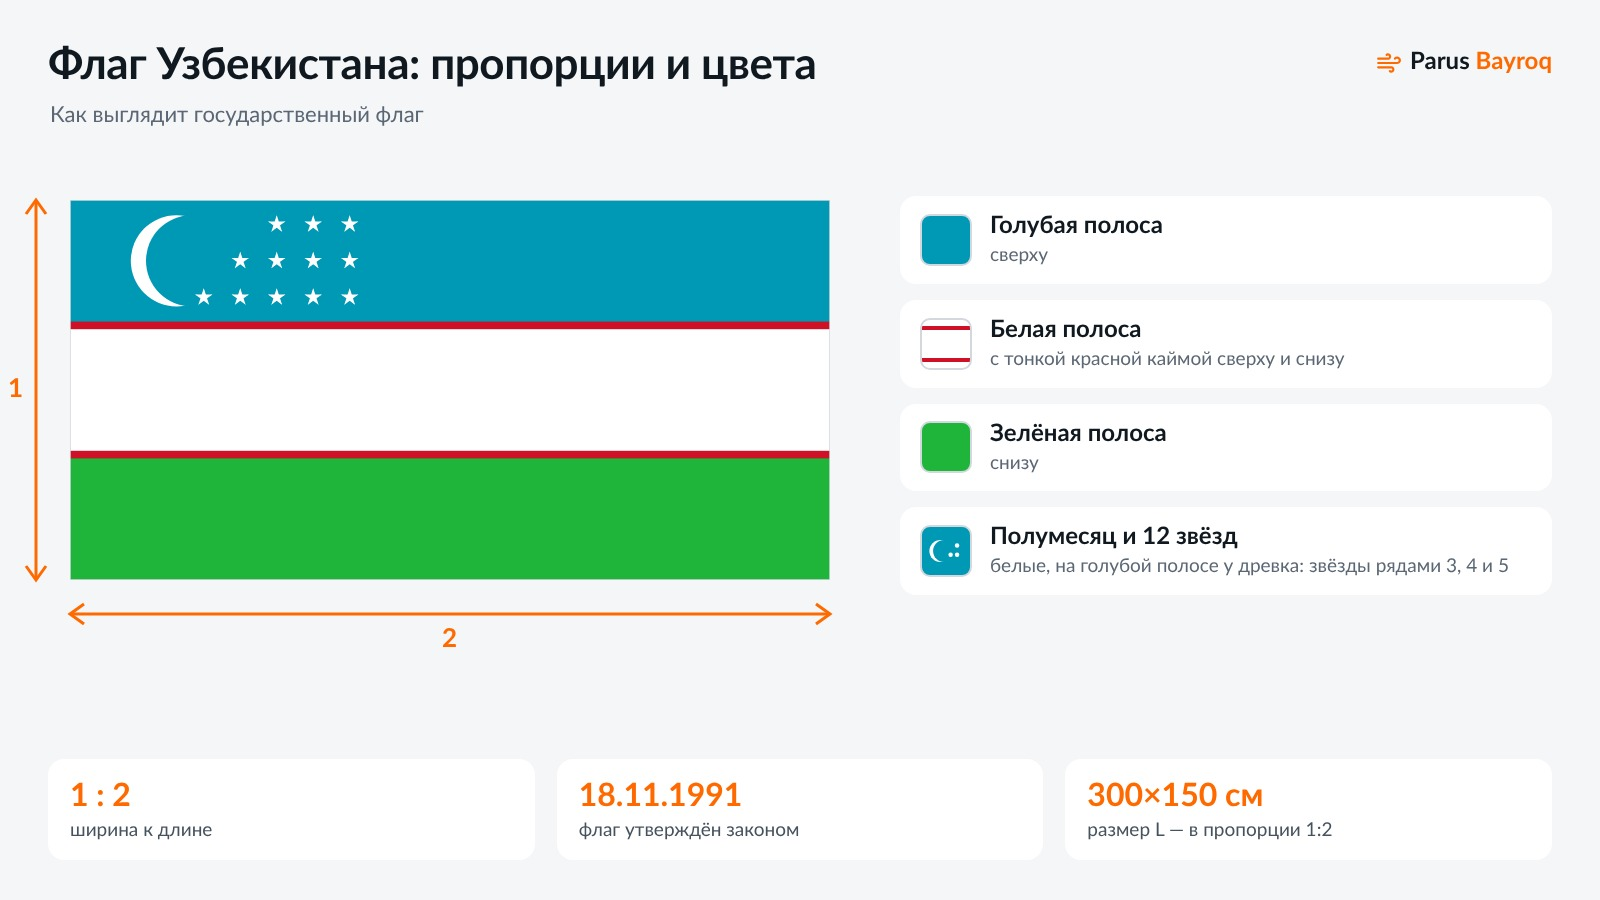
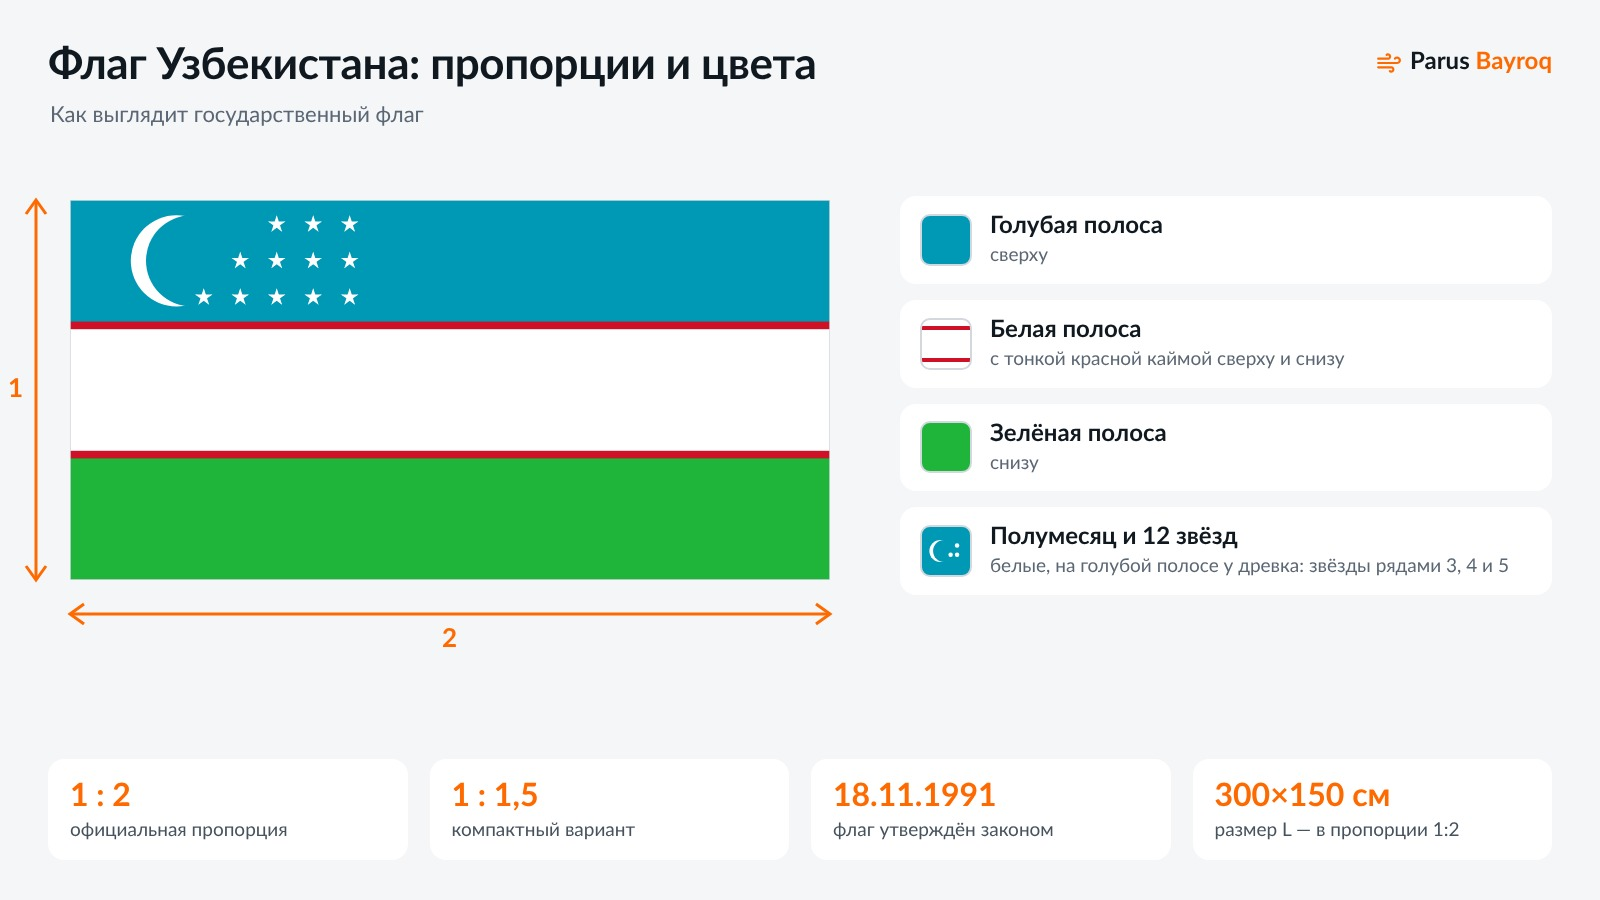
Uzbek flag draft: add compact 1:1.5 proportion (owner)
Besides the official 1:2 we make a compact 1:1.5 flag (100x70,
150x100, 225x150) and any size on request. Text, FAQ, scheme and
knowledge base updated.

Claude-Session: https://claude.ai/code/session_015girjWGqJ2BamwEKrRRUGV

diff --git a/src/content/blog/uz/ozbekiston-bayrogi-sotib-olish.md b/src/content/blog/uz/ozbekiston-bayrogi-sotib-olish.md
@@ -1,6 +1,6 @@
 ---
 title: "O'zbekiston bayrog'ini Toshkentda qayerdan sotib olish mumkin: buyurtma asosida davlat bayroqlari"
-description: "O'zbekiston bayrog'ini Toshkentda sotib olish: davlat bayroqlarini 1:2 nisbatda istalgan o'lchamda bosamiz — flagshtok, fasad, kabinet va tadbirlar uchun. Bayroq qanday ko'rinadi, qaysi o'lchamni tanlash, boshqa davlatlar bayroqlari, narxlar va yetkazish."
+description: "O'zbekiston bayrog'ini Toshkentda sotib olish: davlat bayroqlarini istalgan o'lchamda — rasmiy 1:2 va ixcham 1:1,5 nisbatda — flagshtok, fasad, kabinet va tadbirlar uchun bosamiz. Bayroq qanday ko'rinadi, qaysi o'lchamni tanlash, boshqa davlatlar bayroqlari, narxlar va yetkazish."
 date: 2026-11-28
 lang: uz
 pair: uzflag
@@ -9,16 +9,16 @@ coverAlt: "Toshkentda bino oldidagi flagshtokda O'zbekiston davlat bayrog'i — 
 draft: true
 faq:
   - q: "O'zbekiston bayrog'i qancha turadi?"
-    a: "300×150 sm bayroq — rasmiy 1:2 nisbatda — 280 000 so'm turadi. 1:2 nisbatdagi boshqa o'lchamlarni buyurtma asosida qilamiz: qaysi biri kerakligini yozing, hisoblab beramiz."
+    a: "Rasmiy 1:2 nisbatdagi 300×150 sm bayroq 280 000 so'm, ixcham 1:1,5 nisbatdagi 150×100 sm bayroq — 120 000 so'm turadi. Istalgan boshqa o'lchamni ham qilamiz: qaysi biri kerakligini yozing, hisoblab beramiz."
   - q: "O'zbekiston bayrog'ining nisbati qanday?"
-    a: "1:2 — bayroqning eni bo'yidan ikki baravar kichik, masalan 300×150 sm. Bayroq moviy, oq va yashil yo'llardan iborat, oq yo'l ingichka qizil hoshiya bilan ajratilgan, moviy yo'lda dasta tomonda esa oq yarim oy va 12 ta yulduz bor."
+    a: "Rasmiy nisbat — 1:2: bayroqning eni bo'yidan ikki baravar kichik, masalan 300×150 sm. Bundan tashqari, ixcham 1:1,5 variantini ham qilamiz — masalan, 150×100 sm. Bayroq moviy, oq va yashil yo'llardan iborat, oq yo'l ingichka qizil hoshiya bilan ajratilgan, moviy yo'lda dasta tomonda esa oq yarim oy va 12 ta yulduz bor."
   - q: "Boshqa davlatlarning bayroqlarini buyurtma qilsa bo'ladimi?"
     a: "Ha. Istalgan davlat bayroqlarini, shuningdek kompaniya logotipli bayroqlarni va tadbirlar uchun bayroqlarni qilamiz."
   - q: "Bayroq flagshtok bilan sotiladimi?"
     a: "Yo'q. Klassik bayroq — bu flagshtoksiz mato. O'zi turadigan bayroq kerak bo'lsa, konstruksiyali — flagshtok va bochka-asosli parus bayroqlar bor."
 ---
 
-O'zbekiston bayrog'ini Toshkentda bizdan sotib olsa bo'ladi: davlat bayroqlarini istalgan o'lchamda bosamiz — bino oldidagi flagshtok, fasad, kabinet yoki tadbir uchun. O'zbekiston bayrog'i 1:2 nisbatda bo'lishi kerak, shuning uchun eng qulay standart o'lcham — 300×150 sm, u 280 000 so'm turadi. Shu nisbatdagi boshqa o'lchamlarni buyurtma asosida qilamiz, boshqa davlatlar bayroqlari va logotipli bayroqlarni ham bosamiz.
+O'zbekiston bayrog'ini Toshkentda bizdan sotib olsa bo'ladi: davlat bayroqlarini istalgan o'lchamda bosamiz — bino oldidagi flagshtok, fasad, kabinet yoki tadbir uchun. O'zbekiston bayrog'ining rasmiy nisbati — 1:2, buning uchun eng qulay o'lcham — 300×150 sm, 280 000 so'm. Ixcham variant ham bor — 1:1,5 nisbatda: 100×70, 150×100 yoki 225×150 sm. Umuman olganda, bayroqni sizga kerakli istalgan o'lchamda qilamiz, boshqa davlatlar bayroqlari va logotipli bayroqlarni ham bosamiz.
 
 Pastda — davlat bayrog'i qanday ko'rinadi, qaysi o'lchamni tanlash va uni qanday buyurtma qilish mumkin.
 
@@ -32,11 +32,13 @@ Davlat bayrog'i noto'g'ri qilingani darhol bilinadi: yulduzlar 12 ta emas, yo'll
 
 ## Qaysi o'lchamni tanlash kerak
 
-- **Bino oldidagi flagshtok uchun** — 300×150 sm. Bu standart L o'lcham va u aynan 1:2 nisbatda.
-- **Kabinet, maktab yoki kichik flagshtok uchun** — kichikroq bayroq, masalan 200×100 yoki 150×75 sm. 1:2 nisbatdagi istalgan o'lchamni buyurtma asosida qilamiz.
-- **Maydon yoki tadbir uchun** — katta bayroq. Matoni 1,5 metrgacha enda bosamiz, katta bayroqlarni esa bir necha qismdan tikamiz.
+Bayroqni sizga kerakli istalgan o'lchamda qilamiz. Ko'pincha ikki nisbatdan birini tanlashadi:
 
-Pastdagi narx kartochkasida — klassik bayroqlarning standart o'lchamlari. Ularning hammasi ham 1:2 nisbatda emas: davlat bayrog'i uchun 300×150 sm to'g'ri keladi, qolgan o'lchamlarni nisbatga moslab tanlaymiz.
+- **1:2 — rasmiy.** Bino oldidagi flagshtok uchun — 300×150 sm, bu standart L o'lcham. Shu nisbatdagi kichikroq bayroq — masalan, 200×100 yoki 150×75 sm.
+- **1:1,5 — ixcham.** Bayroq biroz kaltaroq, kabinet, zal yoki tadbir uchun qulay. Unga 100×70, 150×100 va 225×150 sm o'lchamlar to'g'ri keladi.
+- **Maydon yoki katta bayram uchun** — katta bayroq. Matoni 1,5 metrgacha enda bosamiz, katta bayroqlarni esa bir necha qismdan tikamiz.
+
+Pastdagi narx kartochkasida — klassik bayroqlarning standart o'lchamlari: 300×150 sm — 1:2 nisbat uchun, qolganlari — ixcham 1:1,5 uchun.
 
 ## Bir tomonlamami yoki ikki tomonlama
 

diff --git a/content-plan/knowledge.md b/content-plan/knowledge.md
@@ -39,6 +39,7 @@
 - Одобрено владельцем 25.11.2026 (статья про автомойку и шиномонтаж): флаги ставить в трёх местах — у дороги до поворота, у въезда, 2–3 вдоль фасада; флаг не должен закрывать обзор машинам на выезде; в статьях можно называть клиентов Chevrolet, BYD и Mannol как автомобильные бренды; узбекские Qishki shinalar / Yozgi shinalar, moy almashtirish, to'q sariq, kecha-kunduz — подходят.
 - Одобрено владельцем 26.11.2026 (статья про автосалоны): L выше M всего на 20 см (полотно 300×70 против 280×70) — довод за ряд M; у автосалона флаги ставить рядом вдоль дороги через равные промежутки, пару у въезда с предложением, 1–2 у входа в шоурум; если у салона есть свои флагштоки — делаем на них классические флаги любого размера; узбекские shourum, brendbuk, firma uslubi, diler, Test-drayv, Chegirmalar, Yangi modellar — подходят.
 - Одобрено владельцем 27.11.2026 (статья про сети и филиалы): клиентов Yandex Go, Paynet, Uzum, EVOS, Les Ailes и Oqtepa Lavash можно называть как сети, которые у нас заказывают; формулировка «обычный срок — 2–3 дня, срок для большой партии назовём вместе с расчётом»; один дизайн в двух языковых версиях для разных точек; узбекские tarmoq, qahvaxona, hisob raqamga o'tkazma, transport kompaniyasi — подходят. Храним ли макеты прошлых заказов — не подтверждено, не писать.
+- Флаг Узбекистана (владелец 28.11.2026): официальная пропорция — 1:2 (300×150 = размер L классики). Кроме неё делаем компактный вариант 1:1,5 — под него подходят 100×70, 150×100 и 225×150. Вообще делаем флаг любого размера, какой нужен клиенту. В текстах 1:1,5 подавать как наш компактный вариант, а не как официальную пропорцию.
 
 ## Сроки, доставка, оплата
 - Изготовление — клиентам говорим 2–3 дня (владелец 23.11.2026); более короткий стандартный срок не писать. Срочно можем сделать за час-два — этим не хвалиться, упоминать коротко («срочно — от 1–2 часов»). Наценку и условия срочности НЕ указывать. В уже опубликованных статьях «обычно 3 дня» оставить как есть (владелец 23.11.2026).
